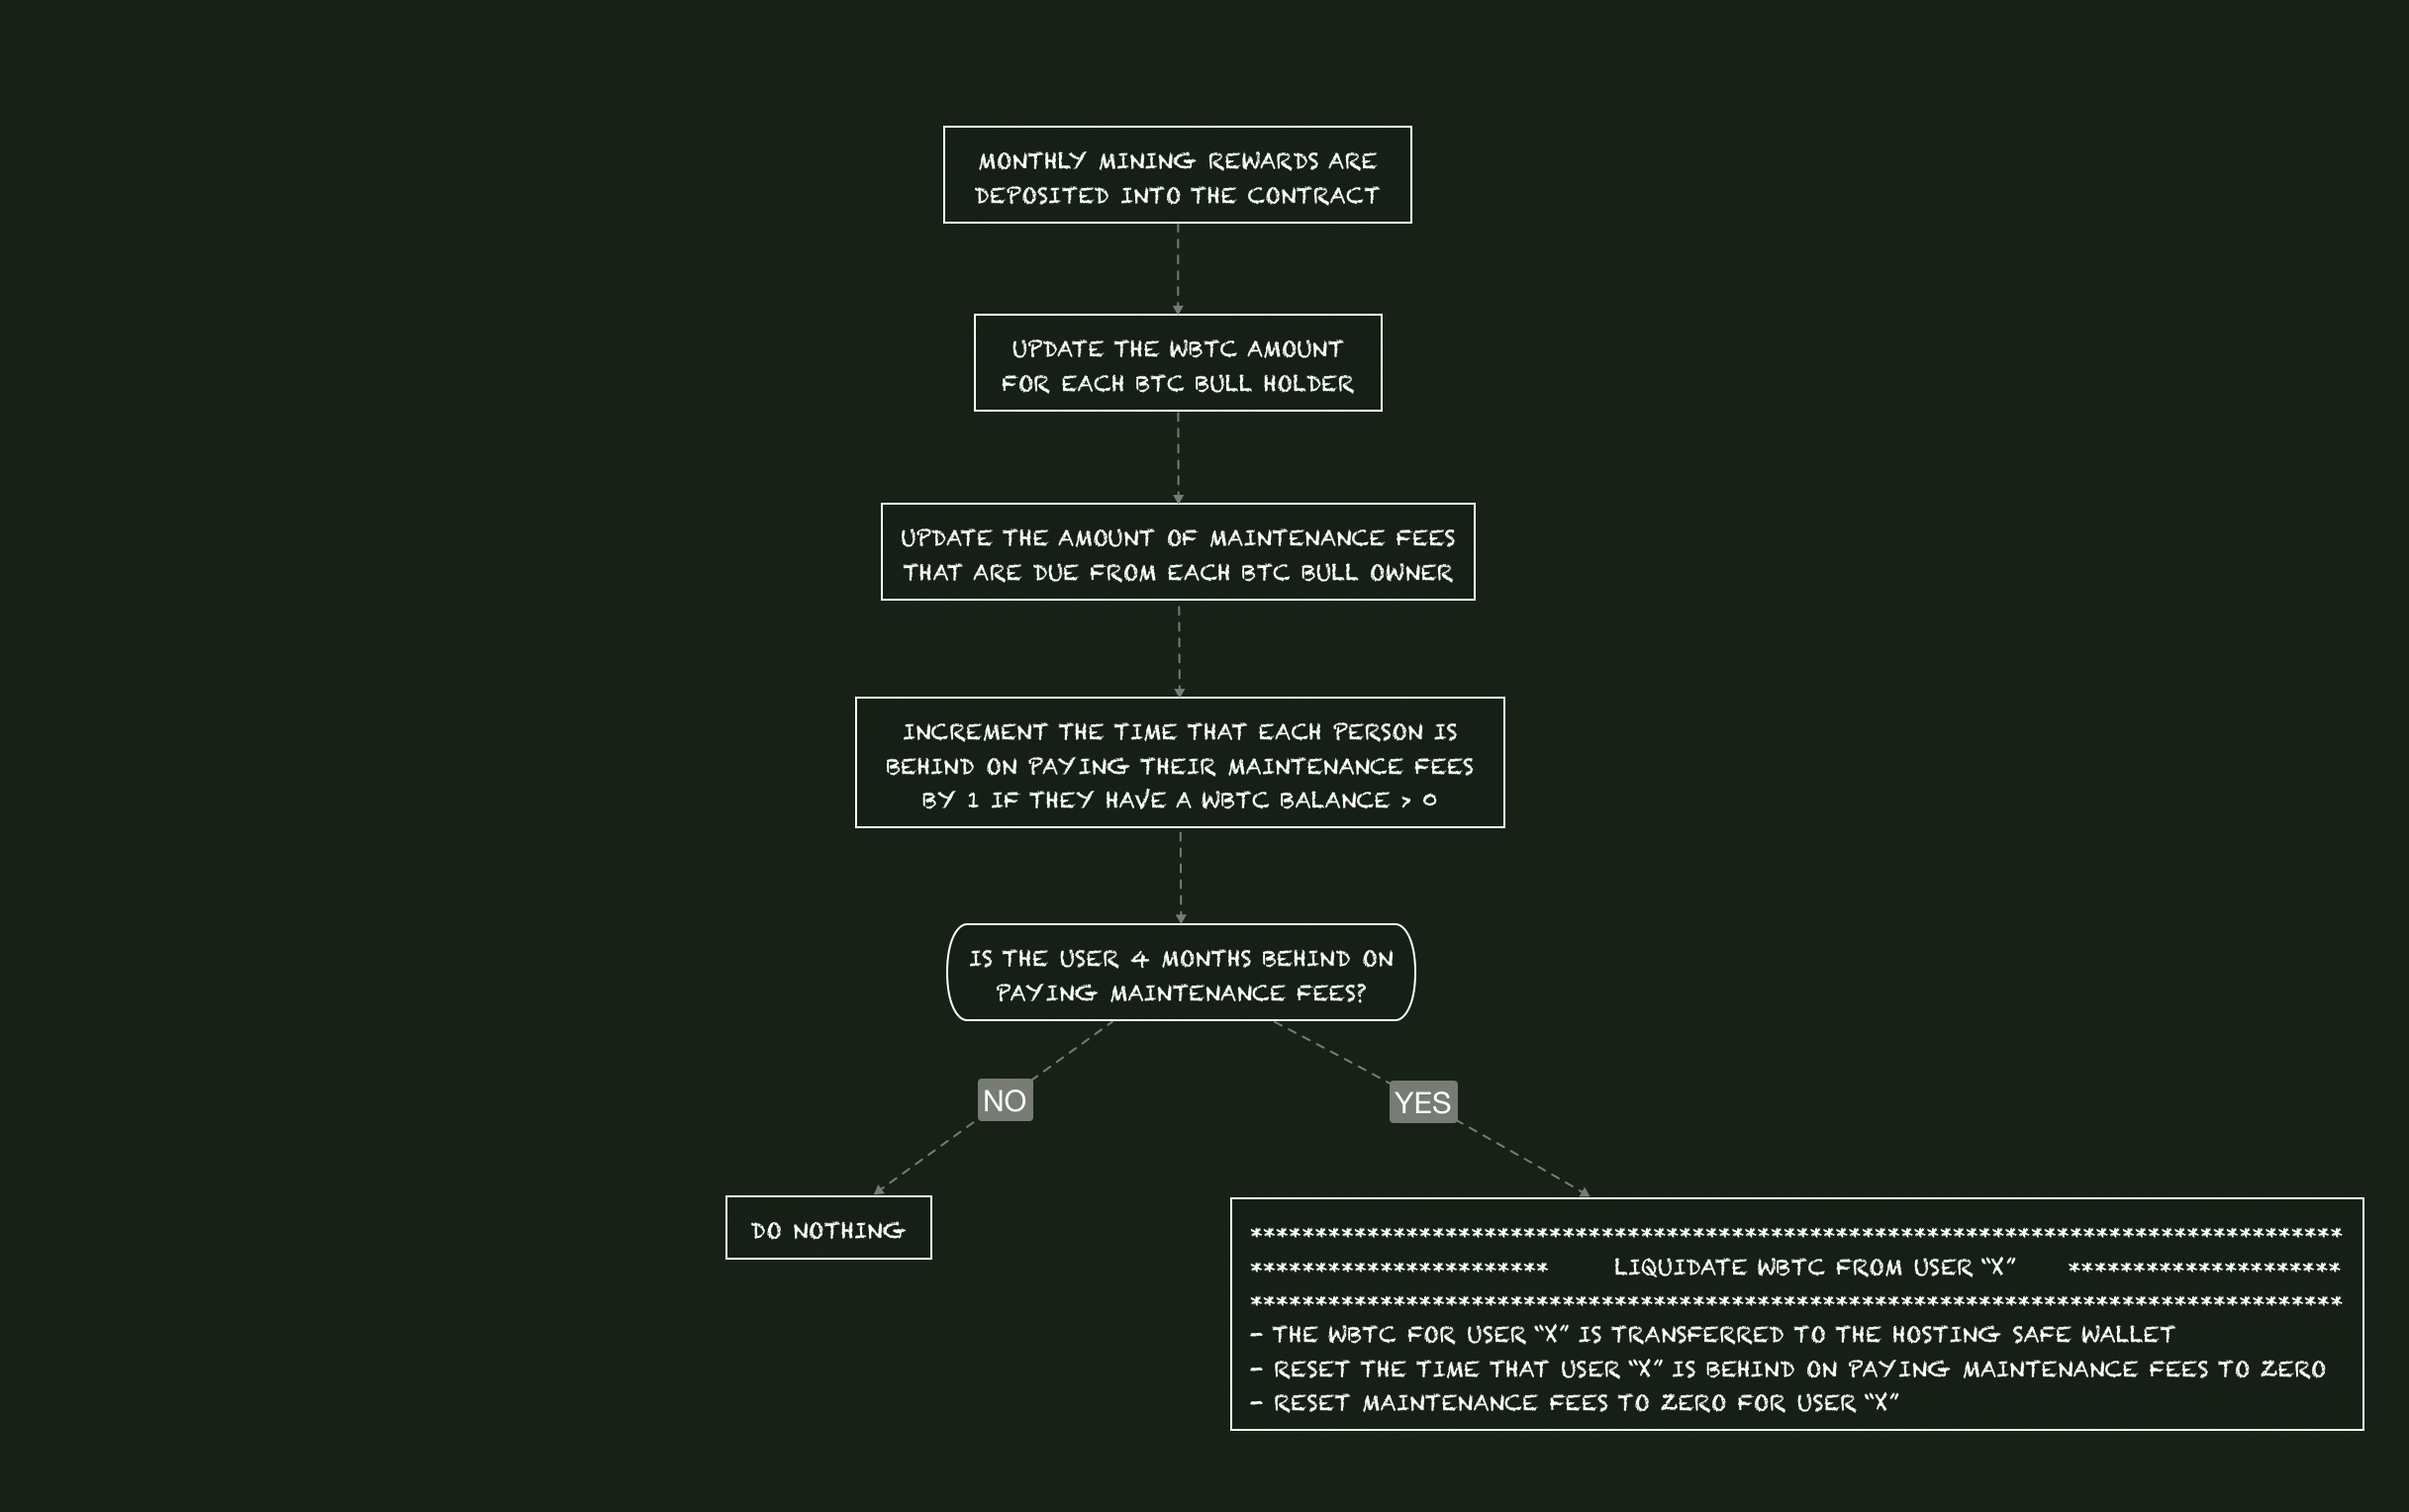
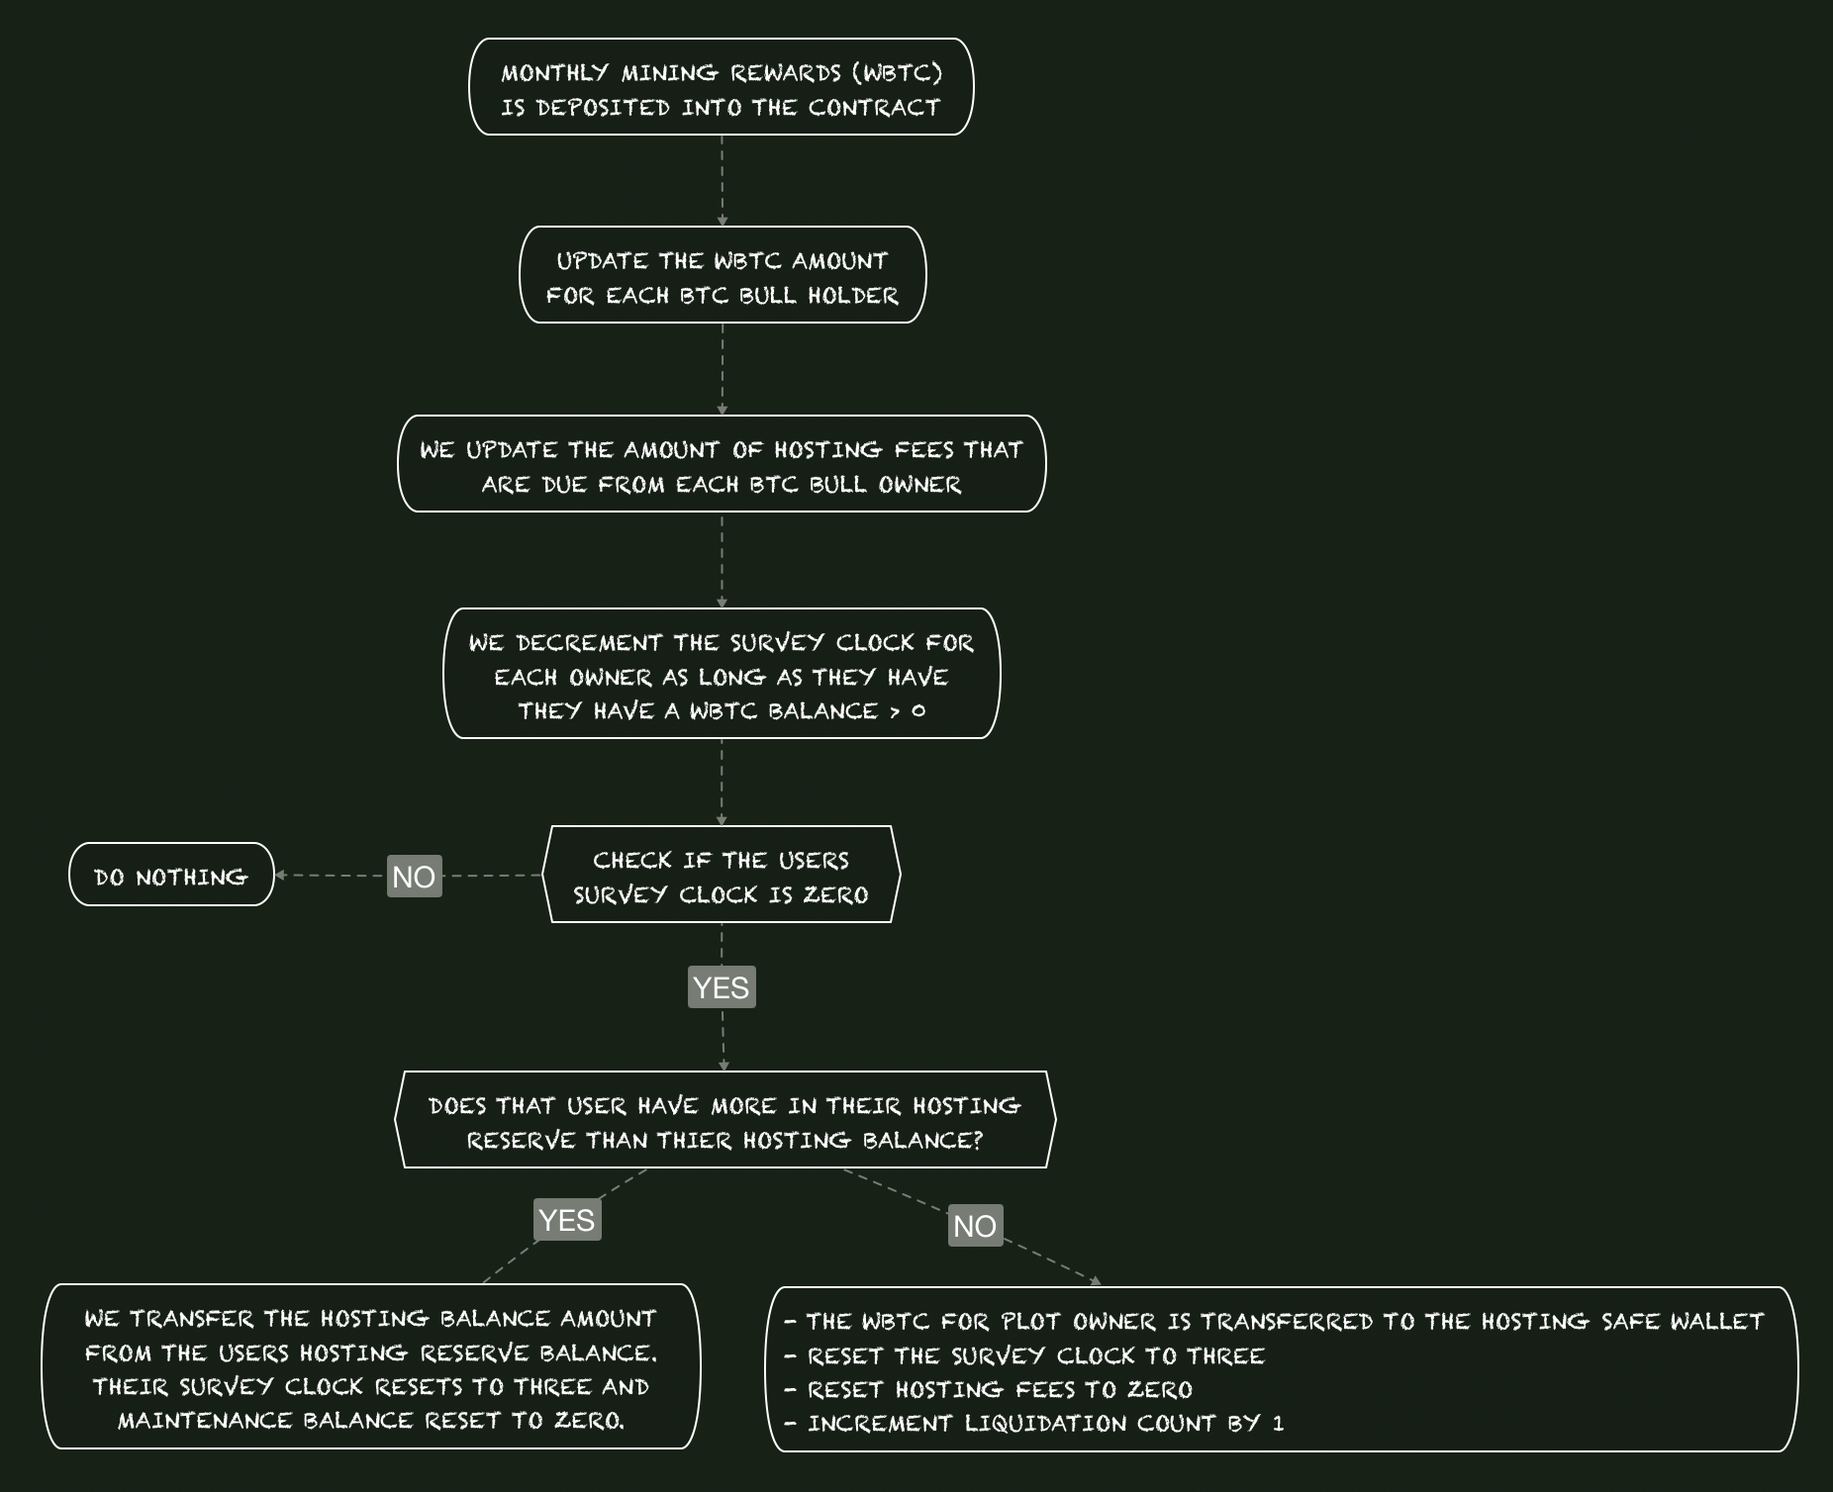
GitBook: [#195] No subject

diff --git a/btc-bulls/handbook/operations-101/README.md b/btc-bulls/handbook/operations-101/README.md
@@ -139,15 +139,13 @@ A very important concept and design feature of the project revolves around HOSTI
 
 When a plot owner's stockyard is surveyed and checked, The Ranch is looking to redeem the hosting fees due from that plot owner.  This is a normal process within our ecosystem. Essentially what we are doing is checking to see if the plot owners hosting reserve balance can cover their hosting balance. If that is the case, we pay the hosting balance for that plot owner's account and automatically reset their hosting balance and survey clock. If the account hosting reserve balance can not cover the hosting balance, we are forced to settle up with the account in another way. We would take the WBTC in that owner's account and send it to the HOSTING SAFE multi-sig wallet and then reset that account's hosting balances and survey clock. Essentially we are liquidating the WBTC from that user's account and will have to sell it to help pay for the project hosting fee invoices. That plots owners account also has a counter that keeps track of how many liquidations they have, which will be incremented by 1.
 
-####
-
-<figure><img src="../../../.gitbook/assets/image (6).png" alt=""><figcaption><p>FIG 6</p></figcaption></figure>
+<figure><img src="../../../.gitbook/assets/image (13).png" alt=""><figcaption></figcaption></figure>
 
 The key difference between our liquidation structure and other projects, such as StrongBlock, is if a user gets behind and doesn't pay their hosting fees. They wouldn't lose everything as you would have in StrongBlock. In our ecosystem, the user only forfeits the current WBTC in their account on our contract, and then they are reset back to good standing, ready to receive next month's WBTC rewards.&#x20;
 
-Plot owners do have the option to never be checked or surveyed. The only time any account is surveyed is if their survey clock gets to zero. A user can pay bi-monthly and never let their survey clock touch zero, and thus they would never be checked using this logic flow.  This approach is a manual process and perfectly fine for users to do. We wanted more of an autopay feature for plot owners and thus created the survey clock to handle it. As long as users have enough in their hosting reserve balance, that account can go for a long time without being liquidated.  &#x20;
+Plot owners do have the option never to be checked or surveyed. The only time any account is surveyed is if their survey clock gets to zero. A user can pay bi-monthly and never let their survey clock touch zero, and thus they would never be checked using this logic flow.  This approach is a manual process and perfectly fine for users to do. We wanted more of an autopay feature for plot owners and thus created the survey clock to handle it. If users have enough in their hosting reserve balance, that account can go for a long time without being liquidated.  &#x20;
 
-Within the project, we have built many ways a user can increase their USDC.e balances on the contract and will continue to build more as time goes on. Referring people to the project gives you 2% of their minting transaction cost. The minting raffle and the Royalty Raffle will do the same and have the ability to fund an account for a long time. Alternatively, a user can also load USDC.e into their hosting reserve balance to cover survey events.  This would allow a user always to have USDC.e in their account and avoid liquidation. As long as the user has more in their hosting reserver balance than they do in their hosting balance, they can't get liquidated. Users can deposit up to $1000 per transaction into their hosting reserve balance, protecting them from liquidation as far as the user wants to project it out into the future.&#x20;
+Within the project, we have built many ways a user can increase their USDC.e balances on the contract and will continue to build more as time goes on. Referring people to the project gives you 2% of their minting transaction cost. The minting raffle and the Royalty Raffle will do the same and can fund an account for a long time. Alternatively, a user can also load USDC.e into their hosting reserve balance to cover survey events.  This would allow a user always to have USDC.e in their account and avoid liquidation. As long as the user has more in their hosting reserver balance than in their hosting balance, they can't get liquidated. Users can deposit up to $1000 per transaction into their hosting reserve balance, protecting them from liquidation as far as the user wants to project it out into the future.&#x20;
 
 
 
